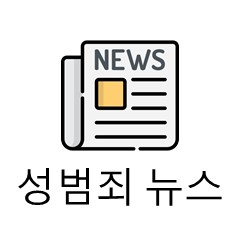
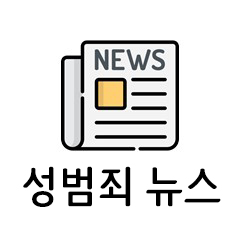
font-fix

diff --git a/Seong/static/css/base.css b/Seong/static/css/base.css
@@ -1,6 +1,9 @@
 
+@font-face { font-family: 'netmarbleM'; src: url('https://cdn.jsdelivr.net/gh/projectnoonnu/noonfonts_four@1.1/netmarbleM.woff') format('woff'); font-weight: normal; font-style: normal; }
 body{
     background-color:#f2f2f5;
+    font-family:'netmarbleM';
+    
 }
 
 input:-ms-imput-placeholder {color:#a8a8a8;}
